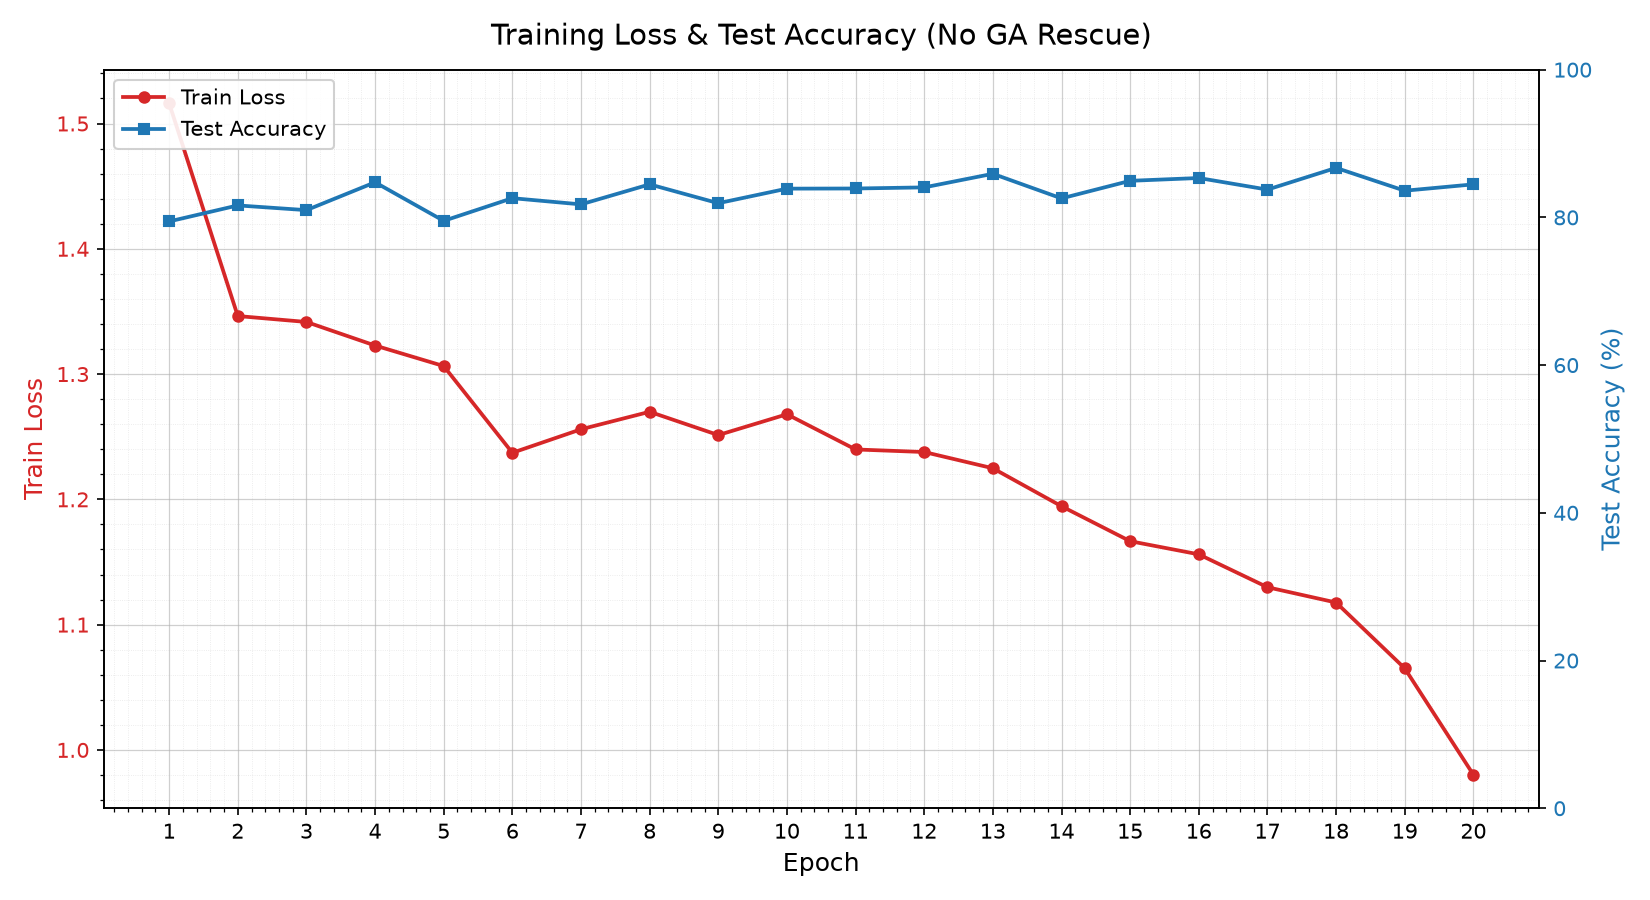
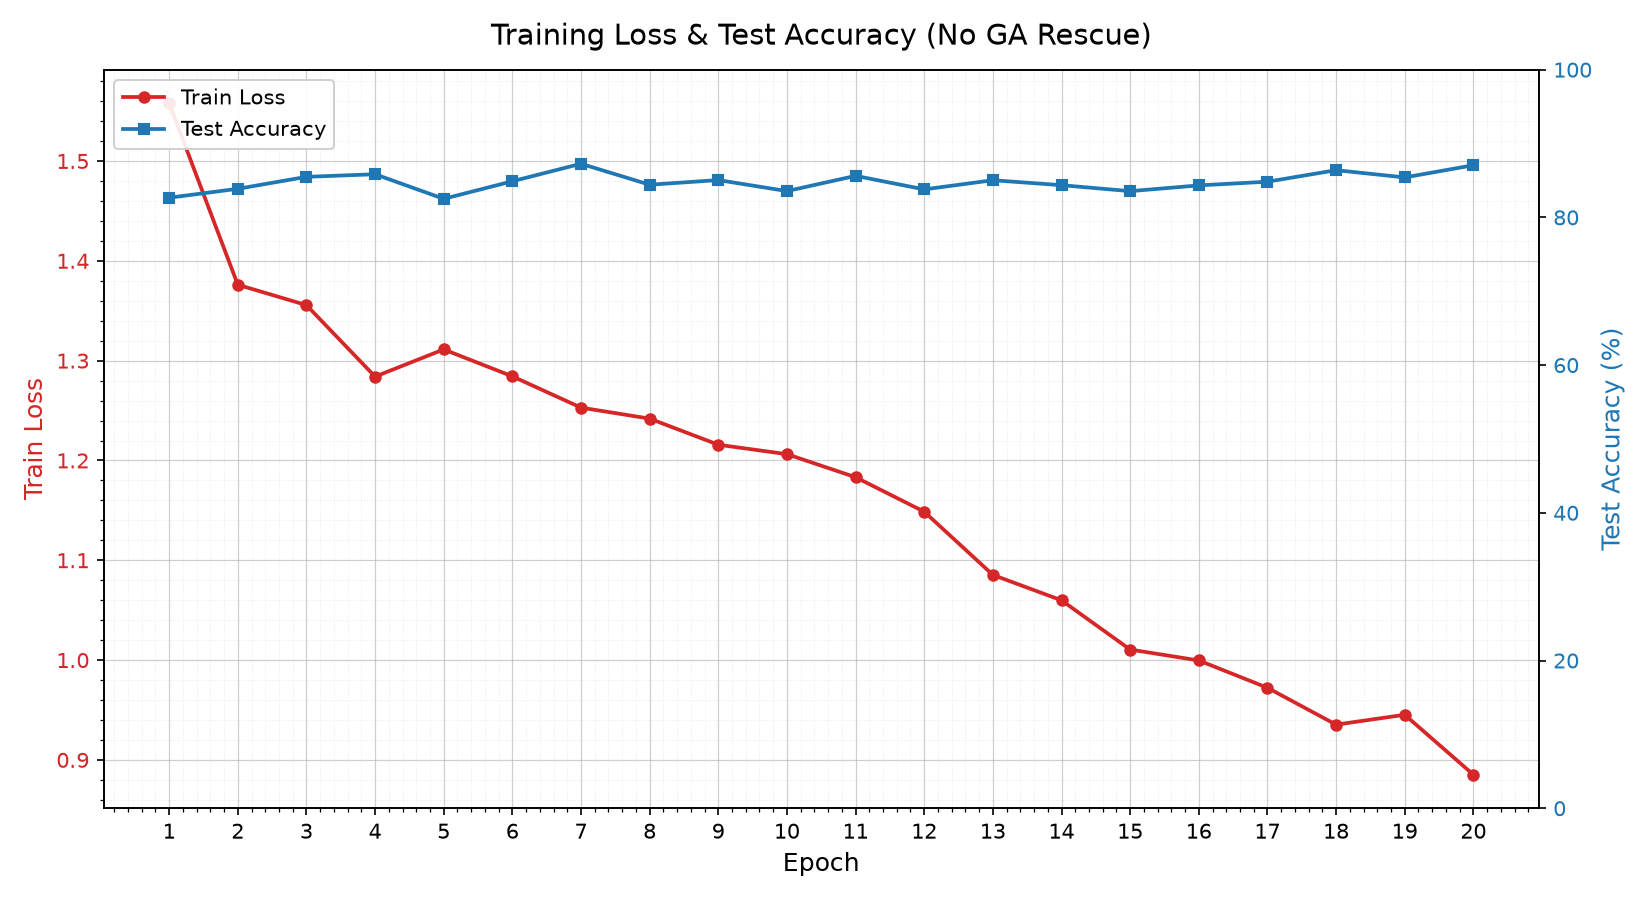
GAの前に一旦バイナリコネクトを最適化したい．STEの逆伝播で範囲外の勾配を停止し学習を安定化

diff --git a/script/binarize_connect_notGA.py b/script/binarize_connect_notGA.py
@@ -20,22 +20,38 @@ class BinarizeSTE(torch.autograd.Function):
         入力xの各要素が 0 以上であれば 1.0、0未満であれば -1.0 に変換
         
         """
+        ctx.save_for_backward(x)
         return torch.where(x >= 0, 1.0, -1.0)
 
     @staticmethod
     def backward(ctx, grad_output):
         """
-        出力側の勾配をそのまま入力側に通過
+        二値化処理は本来微分できないため、
+        そのままでは勾配を計算できない。
+        そこでSTEを用いて、一定の範囲では
+        出力側の勾配をそのまま入力側へ伝える。
+
+        ただし、入力値の絶対値が 1.0 を超えている場合は
+        勾配を 0 とする。
+        これにより、実数重みが二値化の範囲から大きく外れた場合に
+        更新され続けることを防ぐ。
         
         """
-        return grad_output
+        # forward() で保存しておいた入力値を取得
+        x, = ctx.saved_tensors
+        # 出力側から伝わってきた勾配をコピー
+        grad = grad_output.clone()
+        # |x| > 1.0 の領域では勾配を0にして更新を止める
+        grad[x.abs() > 1.0] = 0.0
+
+        return grad
 
 
 class BinarizedNeuroEvo(nn.Module):
     def __init__(self):
         super().__init__()
-        self.fc1 = nn.Linear(784, 64, bias=True)
-        self.fc2 = nn.Linear(64, 10, bias=True)
+        self.fc1 = nn.Linear(784, 64)
+        self.fc2 = nn.Linear(64, 10)
         self.bn1 = nn.BatchNorm1d(64)
 
     def forward(self, x):

diff --git a/script/binarize_connect_ga.py b/script/binarize_connect_ga.py
@@ -39,8 +39,8 @@ class BinarizedNeuroEvo(nn.Module):
 
     def __init__(self):
         super().__init__()
-        self.fc1 = nn.Linear(784, 64, bias=True)
-        self.fc2 = nn.Linear(64, 10, bias=True)
+        self.fc1 = nn.Linear(784, 64)
+        self.fc2 = nn.Linear(64, 10)
         self.bn1 = nn.BatchNorm1d(64)
 
     def forward(self, x):
@@ -84,7 +84,7 @@ def genetic_algorithm(model, x_batch, y_batch):
     
     """
     n_candidate = 8
-    mutation_rate = 0.02
+    mutation_rate = 0.001
 
     # 現状のモデルでの損失を計算
     origin_loss = cross_entropy_loss(model, x_batch, y_batch).item()
@@ -118,7 +118,7 @@ def train_with_ga(model, train_loader, test_loader, device):
     lr = 0.001
 
     # 何エポック停滞したらGAを使うか
-    ga_act = 2
+    ga_act = 4
     # 停滞カウント
     count = 0
 
